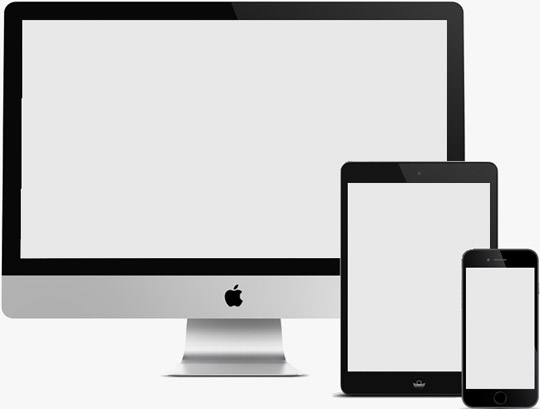
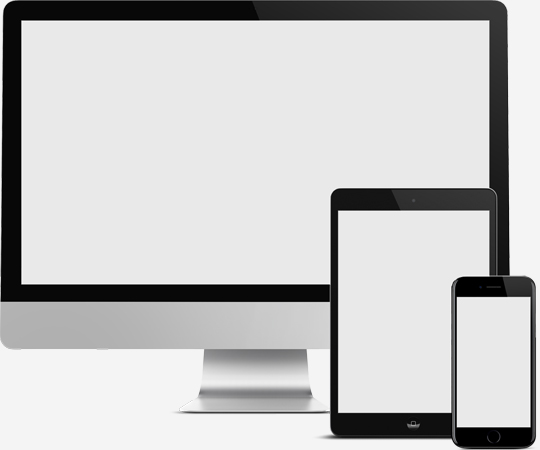
Featured site 1

Changed region(s): [[0.0, 0.0, 1.0, 1.0]]

diff --git a/dist/client-newsletter.html b/dist/client-newsletter.html
@@ -586,24 +586,23 @@
             </tr>
 
             <tr data-class="featured-site">
-              <td data-class="client-info" class="mobile-padding-horizontal-sides" style="" align="left">
-                <p data-class="name" style="margin: 0 0 16px; font: 16px/1.5 Arial, sans-serif;">
-                  <a href="http://gallery-01.justia.net/" target="_blank" style="color: #00b3e3; text-decoration: none;">[Law Offices of Smith & Jones]</a>
+              <td data-class="client-info" class="mobile-padding-horizontal-sides" style=" padding: 0 30px 25px;" align="center">
+                <p data-class="name" style="margin: 0 0 10px; font: 22px/1.15 Arial, sans-serif;">
+                  <b><a href="http://gallery-01.justia.net/" target="_blank" style="text-decoration: none; color: #000000;">[Law Offices of Smith & Jones]</a></b>
                 </p>
-                <p style="margin: 0 0 16px; font: 16px/1.5 Arial, sans-serif;">
-                  in [Anytown, CA]&nbsp;
-                  <br class="mobile-hide" />
-                  recently launched [their] Justia website:
+                <p data-class="location" style="font: 16px/1.5 Arial, sans-serif; margin: 0;">
+                  in [Anytown, CA], recently launched&nbsp;<br class="mobile-hide" />
+                  [their] Justia website:
                 </p>
-                <p style="font: 16px/1.5 Arial, sans-serif; margin: 0;">
-                  <a href="http://gallery-01.justia.net/" target="_blank" style="color: #00b3e3; text-decoration: none;">[gallery-01.justia.com]</a>
+                <p data-class="website" style="font: 16px/1.5 Arial, sans-serif; margin: 0;">
+                  <b><a href="http://gallery-01.justia.net/" target="_blank" style="color: #00b3e3; text-decoration: none;">[gallery-01.justia.com]</a></b>
                 </p>
               </td>
             </tr>
             <tr data-class="featured-site">
-              <td data-class="devices" class="mobile-padding-horizontal-sides" style="" align="left">
+              <td data-class="devices" class="mobile-padding-horizontal-sides" style=" padding: 0 30px 50px;" align="center">
                 <a href="http://gallery-01.justia.net/" target="_blank" style="color: #00b3e3; text-decoration: none;">
-                  <img src="../dist/images/featured-site-01.jpg" alt="[Law Offices of Smith &amp; Jones]" border="0" style="display: block; max-width: 100%;" />
+                  <img src="../dist/images/featured-site-01.jpg" alt="[Law Offices of Smith &amp; Jones]" border="0" style="display: block; max-width: 100%; " width="540" />
                 </a>
               </td>
             </tr>

diff --git a/src/css/main.css b/src/css/main.css
@@ -570,6 +570,33 @@ a {
   text-align: center;
 }
 
+.w-featured-site-month .featured-site .client-info {
+  padding: 0 30px 25px;
+  text-align: center;
+}
+
+.w-featured-site-month .featured-site .client-info .name {
+  font: 22px/1.15 Arial, sans-serif;
+  margin: 0 0 10px;
+}
+
+.w-featured-site-month .featured-site .client-info .name a {
+  color: #000000;
+}
+
+.w-featured-site-month .featured-site .client-info .location {
+  margin: 0;
+}
+
+.w-featured-site-month .featured-site .devices {
+  padding: 0 30px 50px;
+  text-align: center;
+}
+
+.w-featured-site-month .featured-site .devices img {
+  width: 540px;
+}
+
 .full-size {
   width: 100%;
   height: 100%;

diff --git a/src/scss/main/widgets/featured-site-month/_featured-site.scss b/src/scss/main/widgets/featured-site-month/_featured-site.scss
@@ -7,26 +7,29 @@
   .featured-site {
 
     .client-info {
-      padding: 0 $padding $padding;
+      padding: 0 $padding 25px;
       text-align: center;
 
       .name {
-        @include mail-font(22px);
+        @include mail-font(22px, 1.15);
         margin: 0 0 10px;
 
         a {
           color: plt('black');
         }
       }
+
+      .location {
+        margin: 0;
+      }
     }
 
     .devices {
-      padding: 0 $padding 45px;
+      padding: 0 $padding $widget-gap;
       text-align: center;
 
       img {
         width: $featured-site--width;
-        margin: 0 auto;
       }
     }
   }

diff --git a/src/scss/main/widgets/_featured-site-month.scss b/src/scss/main/widgets/_featured-site-month.scss
@@ -8,15 +8,5 @@ $featured-thumb-list--gap: 35px;
 
 // ----------------------------------------------------------------------------------------------------------
 
-.w-featured-site-month {
-  background-color: plt('alabaster');
-
-  p {
-    margin: 0;
-  }
-
-  .main-title {
-    padding: 45px $padding 20px;
-    text-align: center;
-  }
-}
+// .w-featured-site-month {
+// }

diff --git a/src/scss/main.scss b/src/scss/main.scss
@@ -15,6 +15,8 @@ $use-breakpoint: false;
   'mixins',
   'main/widgets',
   'main/widgets/welcome',
+  'main/widgets/featured-site-month',
+  'main/widgets/featured-site-month/featured-site',
   'main/utilities';
 
 @import
